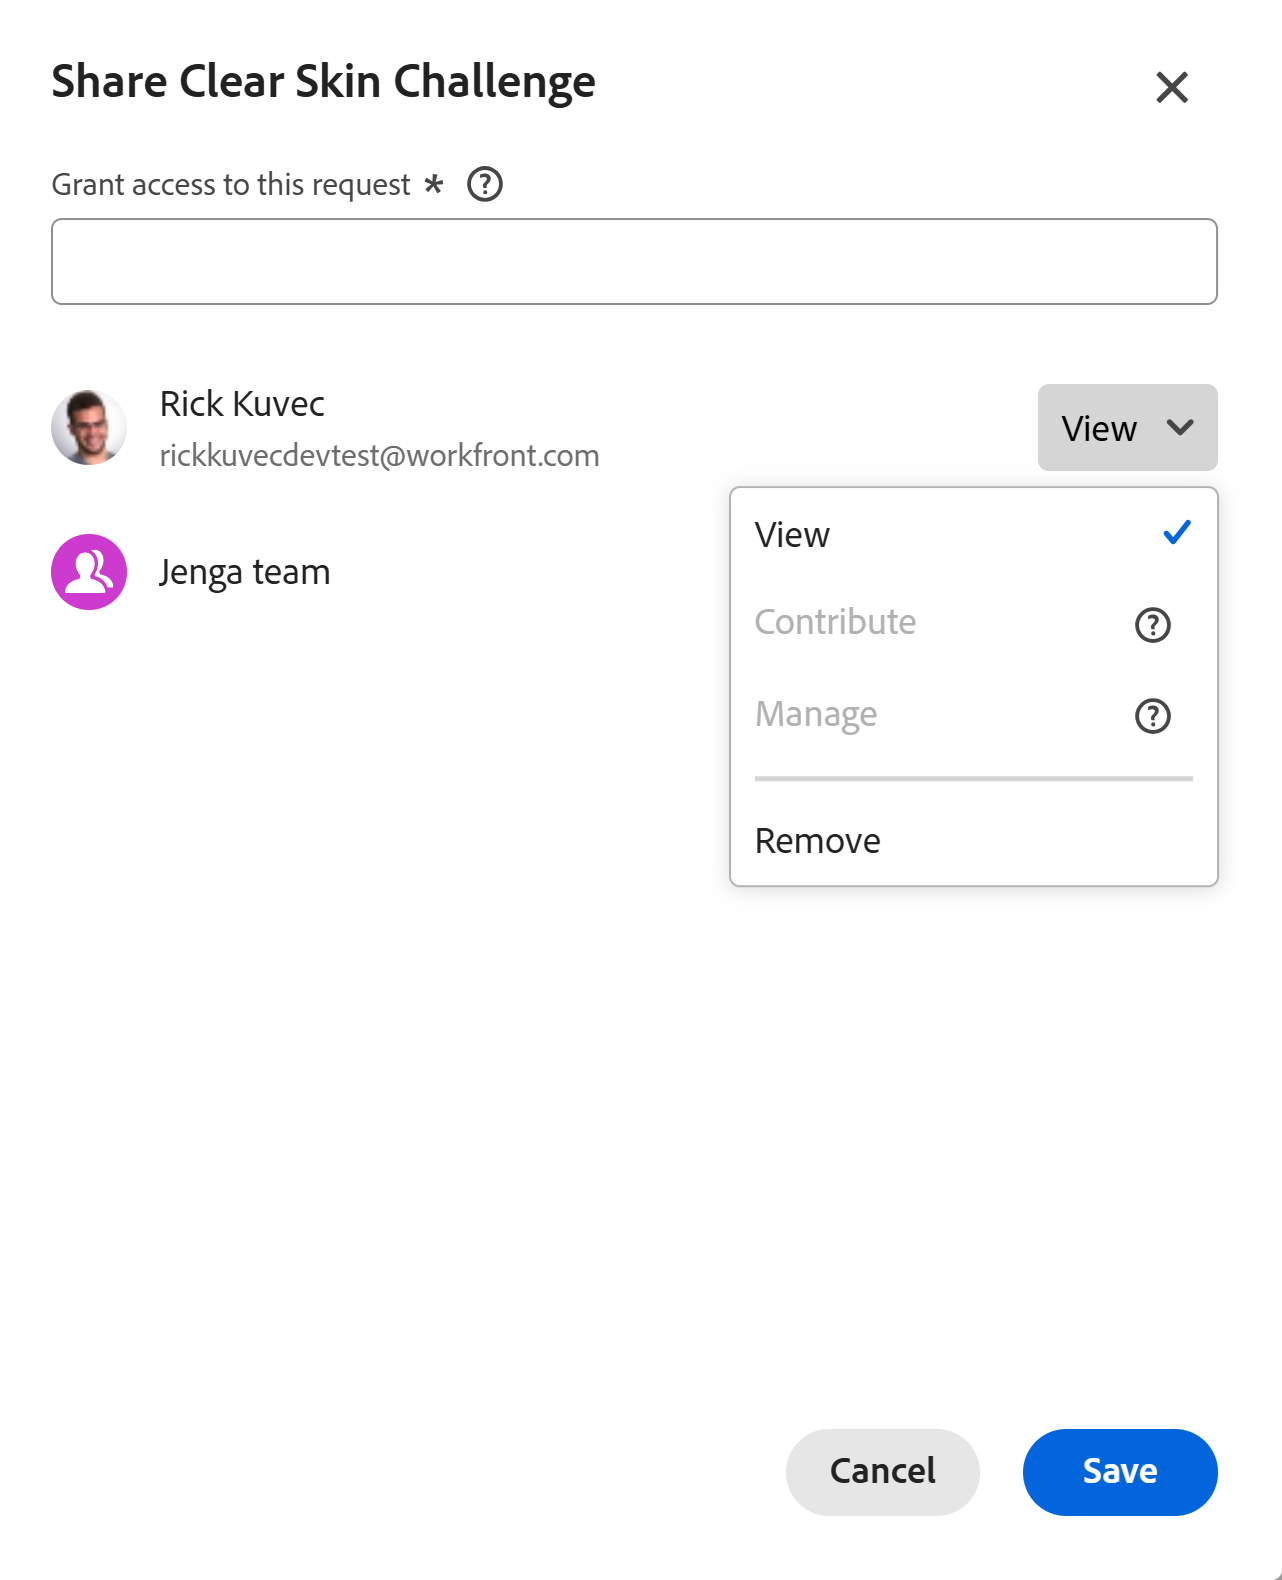
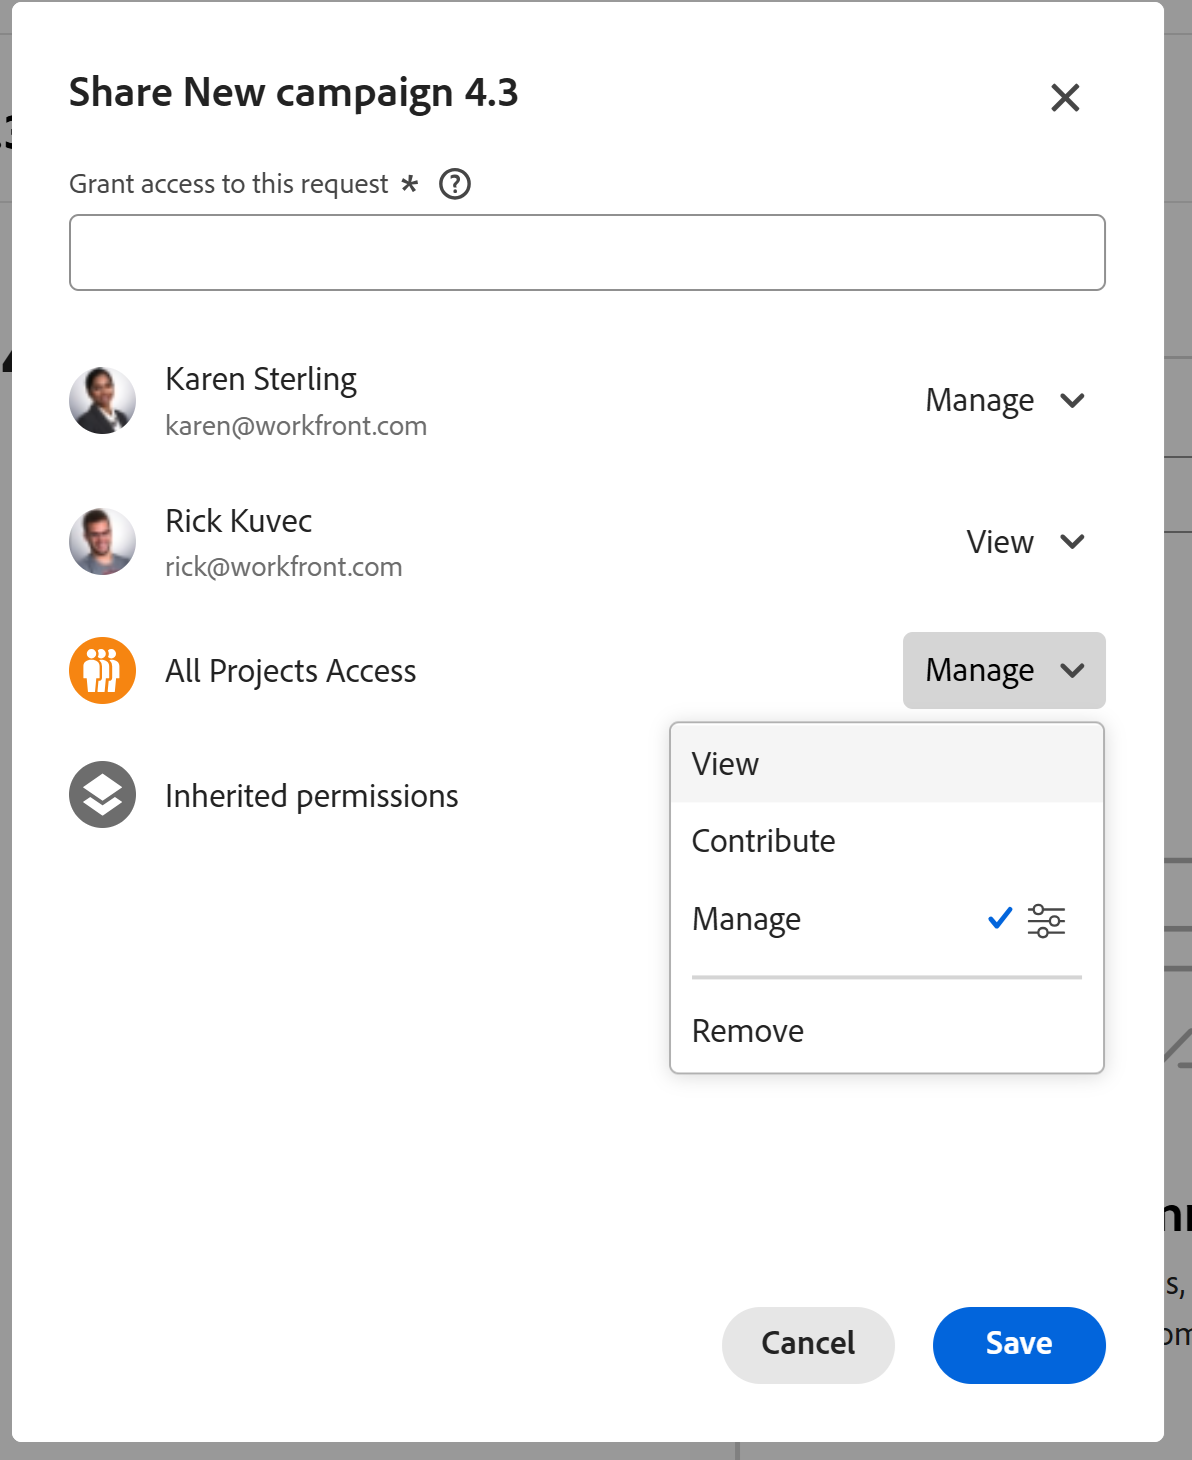
commit-aw-25-sept-pm

diff --git a/help/quicksilver/planning/general/planning-ai-designer.md b/help/quicksilver/planning/general/planning-ai-designer.md
@@ -1,6 +1,6 @@
 ---
 title: Get Started with the Adobe Workfront Planning Designer
-description: You can use the Adobe Planning Designer powered by AI to configure your workspaces and data structures with ease. The Planning Designer supports everything from creating and configuring workspaces to defining fields and formulas, managing records, reviewing change history and building custom views. Whether used directly or through the AI Assistant, the Planning Designer provides a flexible, powerful environment for building and maintaining structured, connected information.
+description: You can use the Adobe Planning Designer powered by AI to configure your workspaces and data structures with ease. The Planning Designer supports everything from creating and configuring workspaces to defining fields and formulas, managing records, reviewing change history and building custom views. Whether used directly or through the AI Assistant or CX Coworker, the Planning Designer provides a flexible, powerful environment for building and maintaining structured, connected information.
 recommendations: noDisplay, noCatalog
 author: Alina, Becky
 feature: Workfront Planning
@@ -31,6 +31,10 @@ topic_v2:
 
 <!--remove the Beta tags in the screen shots on this page when this is released to GA - maybe March 2, 2026-->
 
+<span class="preview">The highlighted information on this page refers to functionality not yet generally available. It is available only in the Preview environment for all customers. After the release to Preview, the same features are also available monthly in the Production environment for customers who enabled fast releases. </span>   
+
+<span class="preview">For information about fast releases, see [Enable or disable fast releases for your organization](/help/quicksilver/administration-and-setup/set-up-workfront/configure-system-defaults/enable-fast-release-process.md). </span>
+
 >[!IMPORTANT]
 >
 >The Planning Designer is currently available to all customers in a Beta state. 
@@ -43,7 +47,7 @@ topic_v2:
 
 You can use the Adobe Planning Designer powered by AI to configure your workspaces and data structures with ease. The Planning Designer supports everything from creating and configuring workspaces to defining fields and formulas, managing records, reviewing change history and building custom views. 
 
-Whether used directly or through the AI Assistant, the Planning Designer provides a flexible, powerful environment for building and maintaining structured, connected information.
+Whether used directly, through the AI Assistant, or <span class="preview"> the CX Coworker</span>, the Planning Designer provides a flexible, powerful environment for building and maintaining structured, connected information.
 
 For information about Workfront Planning, see the following articles:
 
@@ -51,6 +55,10 @@ For information about Workfront Planning, see the following articles:
 * [Get started with Adobe Workfront Planning](/help/quicksilver/planning/general/planning-overview.md)
 * [Adobe Workfront Planning access overview](/help/quicksilver/planning/access/access-overview.md)
 
+For information about AI Assistant and CX Coworker in Planning, see the following articles:
+
+* [Adobe Workfront Planning AI Assistant overview](/help/quicksilver/planning/general/planning-ai-assistant-overview.md)
+* [Adobe Workfront Planning CX Coworker overview](/help/quicksilver/planning/general/planning-cx-coworker-overview.md)
 
 ## Access requirements 
 
@@ -199,15 +207,15 @@ Sargis and Ashot  said these are not required:
 -->
 
 * Your Workfront Administrator must turn on the Planning Designer for your organization. After this, the Planning Designer is available for all users, by default.
-* If your organization has signed an AI agreement, the actions performed by the Planning Designer can also be performed by the AI Assistant, when you use it in the Planning area.
-* The actions performed by the AI Assistant in the Planning area or those performed by the Planning Designer are in the context of your Workfront Planning permissions and your Workfront access level. 
+* If your organization has signed an AI agreement, the actions performed by the Planning Designer can also be performed by the AI Assistant or <span class="preview">the CX Coworker</span>, when you use it in the Planning area.
+* The actions performed by the AI Assistant or <span class="preview">the CX Coworker</span> in the Planning area or those performed by the Planning Designer are in the context of your Workfront Planning permissions and your Workfront access level. 
 
     For information, see the following articles: 
 
     * [Overview of sharing permissions in Adobe Workfront Planning](/help/quicksilver/planning/access/sharing-permissions-overview.md)
     * [License type overview when using Adobe Workfront Planning](/help/quicksilver/planning/access/license-type-overview.md)
 
-* Changes made by the AI Assistant or the Planning Designer on the user's behalf are tracked in the record's history panel. 
+* Changes made by the AI Assistant, <span class="preview">CX Coworker</span> or the Planning Designer on the user's behalf are tracked in the record's history panel. 
 
 * Actions done by the Planning Designer are permanent and could be irreversible. For example, deleting a field cannot be reversed. Review all actions that are proposed by the Designer before accepting them.
 
@@ -219,7 +227,7 @@ Sargis and Ashot  said these are not required:
 
 ## Functionality currently available for the Planning Designer
 
-You can use either the Planning Designer or the AI Assistant to perform any of the following actions: 
+You can use either the Planning Designer or the AI Assistant or <span class="preview">the CX Coworker</span> to perform any of the following actions: 
 
 * Create and configure workspaces 
 
@@ -258,7 +266,7 @@ You can use either the Planning Designer or the AI Assistant to perform any of t
 
 ## Create or update objects using the Planning Designer
 
-You can create or update objects in Workfront Planning either by using the Planning Designer, or the AI Assistant, unless otherwise specified. 
+You can create or update objects in Workfront Planning either by using the Planning Designer, or the AI Assistant or <span class="preview"> the CX Coworker</span>, unless otherwise specified. 
 
 1. Log in to Workfront, then click the **Main Menu** icon ![Lines main menu](assets/lines-main-menu.png) in the upper-left corner, then click **Planning**. 
 
@@ -272,7 +280,7 @@ You can create or update objects in Workfront Planning either by using the Plann
 
     ![Planning Designer window](assets/planning-designer-window.png)
 
-1. In the space provided, start typing prompts for the AI Assistant, then click Enter when you are done. 
+1. In the space provided, start typing prompts for the AI Assistant <span class="preview"> the CX Coworker</span>, then click Enter when you are done. 
 
     <!--add screen shot-->
 

diff --git a/help/quicksilver/product-announcements/product-releases/planning-release-activity/planning-release-activity-26-q4.md b/help/quicksilver/product-announcements/product-releases/planning-release-activity/planning-release-activity-26-q4.md
@@ -17,7 +17,7 @@ For a list of all features released for Adobe Workfront Planning, see [Adobe Wor
 
 >[!NOTE]
 >
->Preview: September 24, 2026
+>Preview: September 25, 2026
 >Production fast release: October 14, 2026
 >Production for everyone: October 15, 2026
 
@@ -33,7 +33,7 @@ For information, see [Share Workfront Planning fields](/help/quicksilver/plannin
 
 >[!NOTE]
 >
->Preview: September 24, 2026
+>Preview: September 25, 2026
 >Production fast release: October 14, 2026
 >Production for everyone: October 15, 2026
 
@@ -47,7 +47,7 @@ For information, see [Share Planning records](/help/quicksilver/planning/request
 
 >[!NOTE]
 >
->Preview: September 24, 2026
+>Preview: September 25, 2026
 >Production fast release: October 14, 2026
 >Production for everyone: October 15, 2026
 
@@ -59,7 +59,7 @@ For information, see [Create and manage a request form in Adobe Workfront Planni
 
 >[!NOTE]
 >
->Preview: September 24, 2026
+>Preview: September 25, 2026
 >Production fast release: October 14, 2026
 >Production for everyone: October 15, 2026
 
@@ -69,11 +69,11 @@ In addition, you can now edit a field's options directly from the request form. 
 
 For information, see [Create request form](/help/quicksilver/planning/requests/create-request-form.md).
 
-## Configure capabilities for each access tier per request form
+## Configure default permissions for requestors on Planning request forms
 
 >[!NOTE]
 >
->Preview: September 24, 2026
+>Preview: September 25, 2026
 >Production fast release: October 14, 2026
 >Production for everyone: October 15, 2026
 
@@ -83,7 +83,7 @@ Requesters can get the following permissions to a request they submitted: View, 
 
 For information, see [Create and manage a request form in Adobe Workfront Planning](/help/quicksilver/planning/requests/create-request-form.md).
 
-## AI Form Fill now pulls data from records referenced with a link
+## AI Form Fill pulls data from records referenced with a link
 
 >[!NOTE]
 >
@@ -94,7 +94,7 @@ AI Form Fill can now retrieve field data directly from a Planning record referen
 
 For information, see [Use Form Fill powered by AI to fill in a request using prompts or documents](/help/quicksilver/manage-work/requests/create-requests/autofill-from-prompt-document.md).
 
-## CX Coworker now available in Workfront Planning
+## CX Coworker available in Workfront Planning
 
 >[!NOTE]
 >
@@ -116,7 +116,7 @@ Coworker is replacing the current AI Assistant as a more powerful way to get wor
 
 For more information, see [CX Coworker overview](/help/quicksilver/workfront-basics/coworker-in-workfront/coworker-overview.md).
 
-## Removed the AI Assistant icon in the Details preview box in preparation for the CX Coworker launch
+## AI Assistant icon removed from the record Details preview box in preparation for the CX Coworker launch
 
 >[!NOTE]
 >
@@ -190,7 +190,7 @@ For more information, see [Configure record type business rules](/help/quicksilv
 >* **Create request forms** and **Manage request forms** has changed to **Request forms**
 >* **Manage automations** has changed to **Automations**
 
-## Introducing custom weeks for the timeline view
+## Custom weeks for the timeline view
 
 >[!NOTE]
 >
@@ -234,7 +234,7 @@ Timeline views now include Collapse all and Expand all options for grouped timel
 
 For more information, see [Manage the timeline view](/help/quicksilver/planning/views/manage-the-timeline-view.md).
 
-## See full group names and resize the grouping panel in the timeline view
+## Display full group names and resize the grouping panel in the timeline view
 
 >[!NOTE]
 >
@@ -327,7 +327,7 @@ For information, see [Skills available for direct install](/help/quicksilver/wor
 >Production fast release: August 13, 2026
 >Production for all: October 15, 2026
 
-The experience of dragging and dropping rows in the table view has been improved visually.
+The experience of dragging and dropping single rows in the table view has been improved visually.
 
 For information, see [Manage the table view](/help/quicksilver/planning/views/manage-the-table-view.md).
 
@@ -352,9 +352,6 @@ The following features are included with this update:
 
 
 For information, see [Manage dependent connections](/help/quicksilver/planning/architecture/manage-dependent-connections.md).
-
-
-
 
 ## Show new comment indicator for a record in the table view
 

diff --git a/help/quicksilver/planning/general/planning-cx-coworker-overview.md b/help/quicksilver/planning/general/planning-cx-coworker-overview.md
@@ -134,20 +134,19 @@ You can locate the CX Coworker in the following areas of Workfront Planning:
 
 ## Access the CX Coworker in the Planning area
 
-
 1. Log in to Workfront, then click the **Main Menu** icon ![Lines main menu](assets/lines-main-menu.png) in the upper-left corner, then click **Planning**. 
 
     The Planning area opens. 
 
-    Locate the **AI icon** ![AI icon](assets/ai-icon.png) in the upper-right corner of the page, or continue to the steps below. 
+    Locate the **Coworker** icon ![Coworker icon](assets/coworker-icon.png) in the upper-right corner of the page, or continue to the steps below. 
 
 1. Click a **workspace card**. 
 
 1. Click a **record type card**. 
 
-1. Click a **record** to open the record's **Details** page, then click the open in .
+1. Click a **record** to open the record's **Details** page, then click the **Open in new tab** icon ![Open in new tab](assets/open-workspace-on-new-tab-icon.png) .
 
-1. Click the **CX Coworker icon** in the upper-right corner of the screen.
+1. Click the **CX Coworker icon** ![Coworker icon](assets/coworker-icon.png) in the upper-right corner of the screen.
 
 1. In the space provided, start typing commands for the CX Coworker, then click Enter when you are done. 
 

diff --git a/help/quicksilver/planning/requests/share-requests.md b/help/quicksilver/planning/requests/share-requests.md
@@ -82,6 +82,7 @@ For more information about Workfront access requirements, see [Access requiremen
 
 * Different people and teams can hold different levels of access on the same request.
 * Permissions could be assigned through multiple entities. If a user has Contribute permissions to a request but their group or job role has View permissions, they retain the highest level of permissions which is Contribute. 
+* Requests inherit permissions from the workspace and the record type. You cannot remove or edit Inherited permissions for Planning requests.
 
 ## Share a request
 
@@ -106,7 +107,14 @@ Ensure you are using the new request experience.
 1. (Optional) For each permission level, click the granular permission icon and select or deselect any granular permissions, like **Edit**, **Comment**, **Share**, or **Delete**. 
 
     ![Granular permissions on requests](assets/granular-permissions-on-requests.png)
+1. (Optional) Expand the Inherited permissions line to view who gains permissions from the workspace and the record type.
+
+    >[!TIP]
+    >
+    >You cannot remove or edit Inherited permissions for Planning requests.
+
 1. Click **Save**.
+
 
     The request is shared with the entities you selected. 
 
